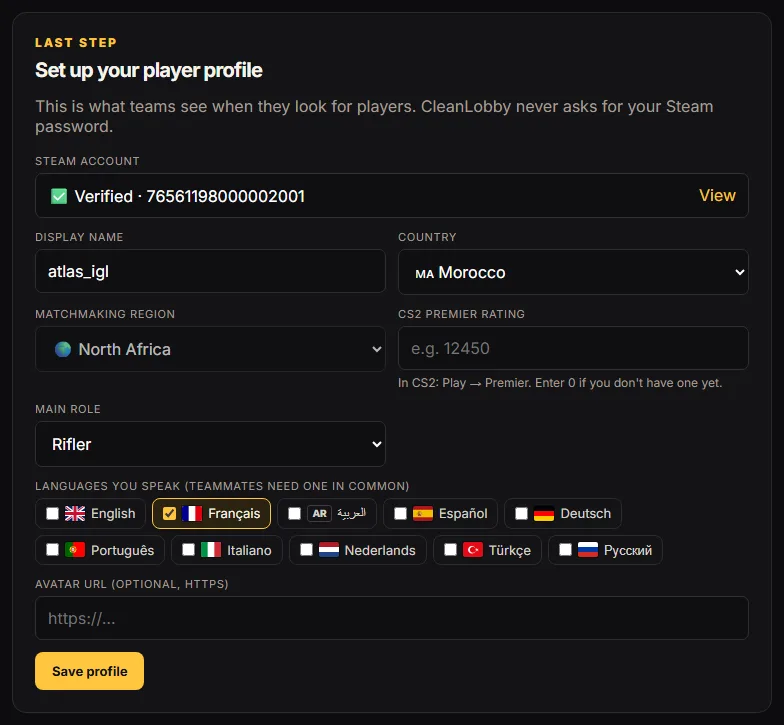
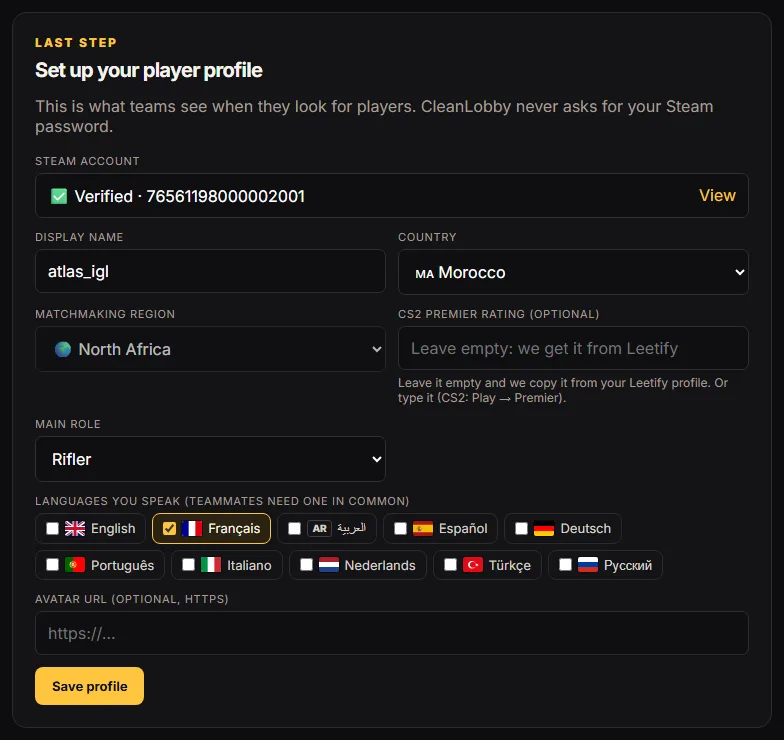
Premier rating from Leetify, live FACEIT in the profile box, Trust Score explained
Premier rating is optional at sign-up: left empty it's copied from Leetify
(syncPremierFromLeetify, also a daily job for everyone), labelled "Data
Provided by Leetify", deleted if Leetify drops it; a typed rating always
wins. Operator accepted that this bends Leetify's don't-store guideline.
Trust Score: Good/Excellent bands (60+ is good), personal tips, a guide
section, FAQ entries, note at the rating step. Privacy Policy and wiki.

diff --git a/public/app.js b/public/app.js
@@ -45,6 +45,8 @@ const Stack5 = (() => {
     const [,cls,name]=premierTier(r), txt=r.toLocaleString('en-US'), i=txt.lastIndexOf(',');
     return `<span class="premier t-${cls}" title="CS2 Premier rating · ${name} tier (self-reported)">${i<0?`<b>${txt}</b>`:`<b>${txt.slice(0,i)}</b><small>${txt.slice(i)}</small>`}</span>`;
   }
+  const LEETIFY_ATTR='<a class="leetify-attr" href="https://leetify.com/" target="_blank" rel="noopener">Data Provided by Leetify</a>';
+  const premierSource=p=>p?.premier_source==='leetify'?LEETIFY_ATTR:p?.premier_rating!=null?'<span class="muted small">self-reported</span>':'';
   function premierRange(min,max){
     min=Number(min)||0; max=Number(max??40000);
     if(!min && max>=40000) return '<span class="muted">Any Premier rating</span>';
@@ -254,7 +256,7 @@ const Stack5 = (() => {
           </div>
           <div id="trust-box"><div class="empty">Loading trust score…</div></div>
           <div class="detail-grid">
-            <div class="detail"><label>CS2 Premier rating <span class="muted small">(self-reported)</span></label><strong>${premier(p.premier_rating)}</strong></div>
+            <div class="detail"><label>CS2 Premier rating ${premierSource(p)}</label><strong>${premier(p.premier_rating)}</strong></div>
             <div class="detail"><label>Role</label><strong>${esc(p.role||'—')}</strong></div>
             <div class="detail"><label>Speaks</label><strong>${langsOf(p).length?`${languageFlags(langsOf(p))} ${esc(langNames(langsOf(p)))}`:'—'}</strong></div>
           </div>
@@ -278,9 +280,22 @@ const Stack5 = (() => {
   const CONFIDENCE={NEW:['New player','Not much data yet — this score will settle as they play.'],BUILDING:['Building','Some history on record.'],ESTABLISHED:['Established','Backed by solid history.']};
   const PART_LABELS={identity:['Identity','Steam account history'],peer:['Peer reputation','Ratings from players they actually played with'],reliability:['Reliability','Accepting matches, not abandoning teams'],record:['Track record','Confirmed matches on CleanLobby']};
 
+  // What a score means. 60+ is good; new players with a solid Steam account usually start around 65.
+  const TRUST_BANDS=[[75,'Excellent','var(--ok)'],[60,'Good','var(--ok)'],[40,'Fair','#f2c94c'],[0,'Low','var(--danger)']];
+  const trustBand=n=>TRUST_BANDS.find(([min])=>n>=min);
+  // The most useful next steps for this score, from its weakest parts.
+  function trustTips(t){
+    const p=t.parts, tips=[];
+    if((p.peer.ratings||0)<5) tips.push('<strong>Finish matches and get rated.</strong> Ratings from the players you played with are 30% of the score. After each match, rate everyone: they can rate you back.');
+    else if(p.peer.score<60) tips.push('<strong>Ratings are below average.</strong> Communicate, play your role and stay to the end: each new match brings new ratings, and older ones fade after a few months.');
+    if(p.reliability.incidents>0) tips.push('<strong>Stay reliable.</strong> Accept matches within 5 minutes, don’t decline, and don’t leave a team that’s in the queue. Incidents fade after about 3 months.');
+    if((p.record.matches||0)<30) tips.push(`<strong>Play more matches to the end.</strong> Each match with an agreed score adds to your track record (${p.record.matches||0} so far, full at 30).`);
+    if((p.identity.notes||[]).some(n=>/private|hidden|not verified/i.test(n))) tips.push('<strong>Make your Steam profile and game details public</strong> so your account age and CS2 hours count fully.');
+    return tips.slice(0,3);
+  }
   function trustPanel(t){
     const [confLabel,confText]=CONFIDENCE[t.confidence]||CONFIDENCE.NEW;
-    const color=t.total>=70?'var(--ok)':t.total>=40?'#f2c94c':'var(--danger)';
+    const [,bandName,color]=trustBand(t.total);
     const part=(key)=>{
       const v=t.parts[key], [label,desc]=PART_LABELS[key];
       const detail=key==='identity'?(v.notes||[]).join(' · '):key==='peer'?(v.ratings?`${v.ratings} rating${v.ratings>1?'s':''}, avg ${v.avg}★`:'No ratings yet'):key==='reliability'?(v.incidents?`${v.incidents} recent incident(s)`:'No incidents'):`${v.matches} match${v.matches===1?'':'es'}`;
@@ -292,12 +307,13 @@ const Stack5 = (() => {
     };
     return `<div class="trust-panel">
       <div class="trust-head">
-        <div><div class="stat-label">CleanLobby Trust Score</div><div class="trust-total" style="color:${color}">${t.total}</div></div>
+        <div><div class="stat-label">CleanLobby Trust Score</div><div class="trust-total" style="color:${color}">${t.total} <span class="trust-band" style="color:${color}">${bandName}</span></div><div class="muted small">60 and above is good · 75+ excellent</div></div>
         <div style="text-align:right"><span class="status ${t.confidence==='ESTABLISHED'?'green':t.confidence==='BUILDING'?'amber':''}">${confLabel}</span><div class="muted small" style="margin-top:6px;max-width:260px">${confText}</div></div>
       </div>
       ${t.flags?.length?`<div class="trust-flags">${t.flags.map(f=>`<div>⚠ ${esc(f)}</div>`).join('')}</div>`:''}
       <div class="trust-parts">${['identity','peer','reliability','record'].map(part).join('')}</div>
-      <p class="muted small" style="margin:14px 0 0">CleanLobby is a reputation layer, not an anti-cheat. Scores combine public Steam data with CleanLobby match history and ratings.</p>
+      ${trustTips(t).length?`<div class="trust-tips"><strong class="small">How to raise it</strong><ul>${trustTips(t).map(x=>`<li>${x}</li>`).join('')}</ul></div>`:''}
+      <p class="muted small" style="margin:14px 0 0">CleanLobby is a reputation layer, not an anti-cheat. <a href="/guide#trust-score" style="color:var(--accent)">How the Trust Score works</a></p>
     </div>`;
   }
 
@@ -478,14 +494,14 @@ const Stack5 = (() => {
   const GUIDE_STEPS=[
     ['1-sign-in',496,434,'Sign in with Steam','Click <strong>Sign in with Steam</strong>. You log in on Steam’s own website: check the address bar says <code>steamcommunity.com</code>. CleanLobby only receives your public SteamID. It never sees your password and can’t touch your inventory or trades.'],
     ['2-pick-username',436,366,'Pick your username','First time only: choose a CleanLobby username. Email is optional (for match notifications). Confirm you’re 16 or older and accept the Terms.'],
-    ['3-profile-setup',784,725,'Set up your player profile','Country (this decides which teams you can play: only ones close enough for good ping), CS2 Premier rating, main role and the languages you speak (your teammates need one in common). Teams see this when they look for players.'],
-    ['4-build-team',1061,755,'Build your five','Create a team and invite players by their CleanLobby username, or find them on <a href="/players">Find Players</a>. Prefer joining a team? Browse <a href="/teams">Find a Team</a> and ask to join. An open team disbands after 6 hours without a new player.'],
+    ['3-profile-setup',784,740,'Set up your player profile','Country (this decides which teams you can play: only ones close enough for good ping), CS2 Premier rating, main role and the languages you speak (your teammates need one in common). Teams see this when they look for players.'],
+    ['4-build-team',1061,827,'Build your five','Create a team and invite players by their CleanLobby username, or find them on <a href="/players">Find Players</a>. Prefer joining a team? Browse <a href="/teams">Find a Team</a> and ask to join. An open team disbands after 6 hours without a new player.'],
     ['5-full-team-queue',705,609,'Five players? Find a match','When your team has 5 players, the captain clicks <strong>Find match</strong>. Everyone must meet the CleanLobby requirements: Steam account at least 2 years old, 500+ hours of CS2, no recent VAC or game ban.'],
-    ['6-searching',705,647,'Searching for an opponent','CleanLobby looks for another full team close enough for good ping (their players’ countries within about 2,500 km of yours) with a similar Premier rating. This runs every 30 seconds. After 2 hours without a match, your team leaves the queue.'],
+    ['6-searching',705,667,'Searching for an opponent','CleanLobby looks for another full team close enough for good ping (their players’ countries within about 2,500 km of yours) with a similar Premier rating. This runs every 30 seconds. After 2 hours without a match, your team leaves the queue.'],
     ['7-match-found',1061,594,'Match found: captains accept','Both captains have <strong>5 minutes</strong> to accept. Declining or letting the time run out counts against the captain’s reliability.'],
     ['8-match-room',1061,1088,'Play through CS2 Private Matchmaking','Each captain invites their 4 teammates to a <strong>CS2 party</strong> (use the Steam buttons). One captain creates a <em>Private Matchmaking Pool</em> in CS2 and pastes the code here. The other captain enters it with <em>Manually Enter a Code</em>. Both parties press <strong>GO</strong>. Optional: a captain can share a Discord voice channel that only their own team sees.'],
-    ['9-result-and-ratings',1061,550,'Report the score, then rate everyone','After the game, both captains report the score. When they match, the result is final and everyone can rate the players they played with, teammates and opponents. Different scores go to an admin.'],
-    ['10-trust-score',1076,303,'Build your Trust Score','Your Trust Score (0–100) combines your Steam history, ratings from people you played with, reliability and matches played. It’s public on your profile and helps teams decide who to play with.']
+    ['9-result-and-ratings',1061,570,'Report the score, then rate everyone','After the game, both captains report the score. When they match, the result is final and everyone can rate the players they played with, teammates and opponents. Different scores go to an admin.'],
+    ['10-trust-score',1061,433,'Build your Trust Score','Your Trust Score (0–100) combines your Steam history, ratings from people you played with, reliability and matches played. It’s public on your profile and helps teams decide who to play with. <strong>60 and above is good.</strong> See <a href="#trust-score">how it works and how to raise it</a>.']
   ];
   const GUIDE_FAQ=[
     ['Is signing in with Steam safe?','Yes. You sign in on steamcommunity.com, never on CleanLobby. We only receive your public SteamID. CleanLobby will never ask for your Steam Guard code, an API key or your trade link. If a page asks for those, it isn’t us.'],
@@ -493,17 +509,36 @@ const Stack5 = (() => {
     ['Does it cost anything?','No. CleanLobby is free during the beta.'],
     ['Does a CleanLobby match change my CS Rating?','No. CS2 Private Matchmaking is unrated in CS2. CleanLobby keeps its own results and Trust Score.'],
     ['What if the other team doesn’t show up, or the captains disagree?','If only one captain reports a score within 6 hours, that score counts. If the scores don’t match, an admin decides. You can also <a href="/contact">contact us</a> with details.'],
+    ['What is a good Trust Score?','<strong>60 and above is good</strong>, 75 and above is excellent. 40–59 is fair, under 40 is low. A new player with a solid Steam account usually starts around 65. A VAC or game ban in the last 2 years caps the score at 20. <a href="#trust-score">How it’s calculated</a>.'],
+    ['How do I raise my Trust Score?','Play matches to the end, report the score, and rate everyone you played with after each match: ratings from other players are 30% of the score. Accept matches in time and don’t leave a queued team. Your profile shows tips for your own score. <a href="#trust-score">Details</a>.'],
     ['How do I report a cheater?','Use the <a href="/contact">Contact page</a> (topic: Report a player) with their CleanLobby name and the match. CleanLobby is a reputation layer, not an anti-cheat.']
   ];
   function guidePage(){
     layout('How CleanLobby works',`<div class="container guide">
       <div class="eyebrow">PLAYER GUIDE</div><h1>How CleanLobby works</h1>
       <p class="subtitle">From signing in to your first match, step by step. Getting set up takes about 5 minutes.</p>
-      <nav class="guide-toc" aria-label="Steps">${GUIDE_STEPS.map(([,,,t],i)=>`<a href="#step-${i+1}">${i+1}. ${esc(t)}</a>`).join('')}<a href="#faq">Questions</a></nav>
+      <nav class="guide-toc" aria-label="Steps">${GUIDE_STEPS.map(([,,,t],i)=>`<a href="#step-${i+1}">${i+1}. ${esc(t)}</a>`).join('')}<a href="#trust-score">Trust Score</a><a href="#faq">Questions</a></nav>
       ${GUIDE_STEPS.map(([id,w,h,t,text],i)=>`<section class="guide-step" id="step-${i+1}">
         <div class="guide-text"><div class="step-num">STEP ${i+1}</div><h2>${esc(t)}</h2><p>${text}</p></div>
         <figure><img src="/img/guide/${id}.webp" width="${w}" height="${h}" loading="${i<2?'eager':'lazy'}" alt="${esc(t)}: screenshot of CleanLobby"><figcaption class="muted small">Example players and teams.</figcaption></figure>
       </section>`).join('')}
+      <section class="panel guide-trust" id="trust-score" style="margin-top:28px">
+        <div class="step-num">TRUST SCORE</div><h2>How the Trust Score works</h2>
+        <p>Every player has a public score from 0 to 100. It tells teams how much they can count on you: is this a real, established account, do people enjoy playing with you, and do you show up? It is not a skill rating: skill is your Premier rating.</p>
+        <div class="trust-scale" aria-label="Score bands">
+          <div style="--c:var(--danger);flex:40"><b>0–39</b>Low</div><div style="--c:#f2c94c;flex:20"><b>40–59</b>Fair</div><div style="--c:var(--ok);flex:15"><b>60–74</b>Good</div><div style="--c:var(--ok);flex:25"><b>75–100</b>Excellent</div>
+        </div>
+        <p><strong>60 and above is good.</strong> A new player with a solid Steam account usually starts around 65, then the score moves with every match.</p>
+        <table class="trust-table">
+          <tr><th>Part</th><th>Weight</th><th>What counts</th><th>How to raise it</th></tr>
+          <tr><td><strong>Identity</strong></td><td>35%</td><td>Your Steam account: age (full at 6 years), CS2 hours (full at 2,000 h), Steam level (full at 25). Only counts once you signed in through Steam.</td><td>Keep your Steam profile and game details public. It grows by itself as your account ages.</td></tr>
+          <tr><td><strong>Peer reputation</strong></td><td>30%</td><td>1–5★ ratings from teammates and opponents after matches. Ratings from trusted, older accounts count more. Ratings fade after a few months. The same small group rating each other again and again counts less.</td><td>Play well with others: communicate, play your role, stay to the end. Rate everyone after each match, so they rate you back.</td></tr>
+          <tr><td><strong>Reliability</strong></td><td>25%</td><td>Showing up. Declining a match, letting it expire, or leaving a team that’s in the queue count against you. Incidents fade after about 3 months. New players start at 80.</td><td>Accept matches within 5 minutes and don’t leave a queued team.</td></tr>
+          <tr><td><strong>Track record</strong></td><td>10%</td><td>Matches you played to the end with an agreed score (full at 30 matches).</td><td>Play matches through and make sure your captain reports the score.</td></tr>
+        </table>
+        <p><strong>What can cap it:</strong> a VAC or game ban in the last 2 years caps the score at 20. Older bans take off 15 points each (up to 30). A Steam community ban caps it at 40.</p>
+        <p class="muted small">The label next to the score (New player, Building, Established) says how much history backs it. A new player’s score can still move a lot. CleanLobby is a reputation layer, not an anti-cheat.</p>
+      </section>
       <section class="panel" id="faq" style="margin-top:28px"><h2>Questions</h2>${GUIDE_FAQ.map(([q,a])=>`<details class="faq"><summary>${esc(q)}</summary><p>${a}</p></details>`).join('')}</section>
       <div class="cta" style="margin-top:24px"><h2>Ready?</h2><p>Sign in, set up your profile and build your five.</p><div class="actions"><a class="btn btn-green" href="/login" data-guest-cta>Sign in with Steam</a></div></div>
     </div>`,'guide');
@@ -647,6 +682,11 @@ const Stack5 = (() => {
         <div>${sidePanel(d)}</div>
       </div>`;
     startCountdowns();
+    // FACEIT is shown live only (its API terms forbid keeping a copy).
+    get(`/api/players/${d.player.id}/faceit`).then(f=>{
+      const el=document.getElementById('my-faceit');
+      if(el && f.available && !f.none) el.innerHTML=`FACEIT <strong>level ${esc(f.level??'—')}</strong> · Elo ${esc(f.elo??'—')} <span class="leetify-attr">Live data from FACEIT</span>`;
+    }).catch(()=>{});
 
     // Keep the page live while waiting on the queue or the other captain (no text inputs are shown then).
     const waiting=(d.team && d.team.status==='READY') || (d.match && ['PENDING','CONFIRMED','DISPUTED'].includes(d.match.status));
@@ -761,7 +801,7 @@ const Stack5 = (() => {
         body+=`<h3 style="margin:18px 0 6px">After the game: report the score</h3>`
           +(myReport?`<p>You reported <strong>${myReport[0]}–${myReport[1]}</strong>. ${theirReport?'':'Waiting for the other captain.'}</p><details class="muted small"><summary>Change your report</summary>${reportForm('Update')}</details>`:reportForm('Report result'))+deadline;
       } else {
-        body+=`<p class="muted" style="margin-top:16px">After the game, your captain reports the score. Then you can rate everyone you played with.</p>`;
+        body+=`<p class="muted" style="margin-top:16px">After the game, your captain reports the score. Then you can rate everyone you played with: ratings are 30% of the Trust Score.</p>`;
       }
     } else if(m.status==='DISPUTED'){
       head=`<div class="eyebrow" style="color:#ffb3b9">RESULT DISPUTED</div><h2 style="margin-top:8px">${esc(mine?.name)} vs ${esc(other?.name)}</h2>
@@ -771,7 +811,7 @@ const Stack5 = (() => {
       const [me,them]=mySide([m.score_a,m.score_b]);
       head=`<div class="eyebrow">MATCH FINISHED</div>
         <h2 style="margin-top:8px">${esc(mine?.name)} <span class="score">${me} – ${them}</span> ${esc(other?.name)}</h2>
-        <p class="muted">${me>them?'🏆 Your team won.':me<them?'Your team lost.':'Draw.'} Rate the players you played with, teammates and opponents. Ratings build their Trust Score.</p>`;
+        <p class="muted">${me>them?'🏆 Your team won.':me<them?'Your team lost.':'Draw.'} Rate the players you played with, teammates and opponents. Ratings are 30% of everyone’s Trust Score, and they can rate you back. <a href="/guide#trust-score" style="color:var(--accent)">How it works</a></p>`;
     } else if(m.status==='NO_RESULT'){
       head=`<div class="eyebrow">MATCH CLOSED</div><h2 style="margin-top:8px">${esc(mine?.name)} vs ${esc(other?.name)}</h2>
         <p class="muted">No result was reported in time, so this match doesn't count for anyone.</p>`;
@@ -862,9 +902,12 @@ const Stack5 = (() => {
     }
     html+=`<div class="panel"><h2>Your profile</h2>
       <div class="muted small">${countryFlag(d.player.country)} ${esc(d.player.region)} · ${premier(d.player.premier_rating)} · ${esc(d.player.role)}</div>
-      ${d.player.premier_rating==null?'<p class="small" style="color:#f2c94c;margin:10px 0 0">Add your CS2 Premier rating so we can match your team fairly.</p>':''}
+      <div class="small" style="margin-top:8px">Premier ${premier(d.player.premier_rating)} ${premierSource(d.player)}</div>
+      <div class="small" id="my-faceit" style="margin-top:6px"></div>
+      ${d.player.premier_rating==null?'<p class="small" style="color:#f2c94c;margin:10px 0 0">Leetify has no Premier rating for you yet. Type yours below so we can match your team fairly.</p>':''}
       <form data-form="languages" style="margin-top:12px"><label class="field-label">Languages you speak</label>${languageBoxes(langsOf(d.player))}<button class="btn btn-dark btn-small" style="margin-top:8px">Save languages</button></form>
       <form data-form="premier" class="inline-form"><input class="input" name="premier_rating" type="number" inputmode="numeric" min="0" max="40000" placeholder="Premier rating" value="${d.player.premier_rating??''}" aria-label="CS2 Premier rating"><button class="btn btn-dark btn-small">Update</button></form>
+      ${d.player.premier_source==='self'?`<button class="btn btn-outline btn-small" data-act="premier-leetify" style="margin-top:8px">Use my Leetify rating instead</button>`:''}
       <div class="muted small" style="margin-top:6px">${d.eligibility?.eligible?'<span class="status green">VERIFIED</span> Meets CleanLobby requirements':'<span class="status amber">NOT VERIFIED</span>'}</div>
       <div class="actions" style="margin-top:12px"><a class="btn btn-small btn-dark" href="/player/${encodeURIComponent(d.player.display_name)}">View public profile</a><a class="btn btn-small btn-outline" href="/account">Account</a></div></div>`;
     return html;
@@ -891,8 +934,8 @@ const Stack5 = (() => {
         <div><label>Display name</label><input class="input" name="display_name" maxlength="40" value="${esc(d.account.username)}" required></div>
         <div><label>Country</label><select name="country" required>${cat.countries.map(c=>`<option value="${c.code}" data-region="${c.region}" ${c.code==='MA'?'selected':''}>${c.flag} ${esc(c.name)}</option>`).join('')}</select></div>
         <div><label>Matchmaking region</label><select name="region" disabled>${cat.regions.map(r=>`<option value="${r.id}">${r.flag} ${esc(r.name)}</option>`).join('')}</select></div>
-        <div><label>CS2 Premier rating</label><input class="input" name="premier_rating" type="number" inputmode="numeric" min="0" max="40000" placeholder="e.g. 12450" required>
-          <div class="muted small" style="margin-top:5px">In CS2: Play → Premier. Enter 0 if you don't have one yet.</div></div>
+        <div><label>CS2 Premier rating (optional)</label><input class="input" name="premier_rating" type="number" inputmode="numeric" min="0" max="40000" placeholder="Leave empty: we get it from Leetify">
+          <div class="muted small" style="margin-top:5px">Leave it empty and we copy it from your Leetify profile. Or type it (CS2: Play → Premier).</div></div>
         <div><label>Main role</label><select name="role">${ROLES.map(r=>`<option>${r}</option>`).join('')}</select></div>
         <div class="full"><label>Languages you speak (teammates need one in common)</label>${languageBoxes(['FR'])}</div>
         <div class="full"><label>Avatar URL (optional, https)</label><input class="input" name="avatar_url" type="url" placeholder="https://..."></div>
@@ -915,6 +958,7 @@ const Stack5 = (() => {
     'leave':          id=>post(`/api/teams/${id}/leave`),
     'disband':        id=>post(`/api/teams/${id}/disband`),
     'remove':     (id,arg)=>post(`/api/teams/${id}/remove`,{player_id:Number(arg)}),
+    'premier-leetify': ()=>post('/api/profile/premier',{use_leetify:true}),
     'transfer':   (id,arg)=>post(`/api/teams/${id}/transfer`,{player_id:Number(arg)}),
     'accept-match':(id,arg)=>post(`/api/matches/${id}/accept`,{team_id:Number(arg)}),
     'decline-match':  id=>post(`/api/matches/${id}/decline`),
@@ -965,6 +1009,7 @@ const Stack5 = (() => {
       if(form.dataset.form==='profile'){
         data.region=form.region.value;
         data.languages=checked();
+        if(!data.premier_rating) delete data.premier_rating;
         if(!data.avatar_url) delete data.avatar_url;
         await post('/api/profile',data); toast('Profile saved. Welcome to CleanLobby!');
       }

diff --git a/src/server.js b/src/server.js
@@ -8,7 +8,7 @@ import crypto from "node:crypto";
 import { fileURLToPath } from "node:url";
 import nodemailer from "nodemailer";
 import { db, getTeam, getTeamMembers } from "./db.js";
-import { steamPersonaName, refreshExternal, leetifyProfile, faceitProfile, faceitEnabled } from "./external.js";
+import { steamPersonaName, refreshExternal, leetifyProfile, faceitProfile, faceitEnabled, syncPremierFromLeetify } from "./external.js";
 import { computeTrust, recomputeAll, recordEvent } from "./trust.js";
 import { evaluateEligibility, isEligible, eligibilityEnabled, NOT_ELIGIBLE } from "./eligibility.js";
 import { steamLoginUrl, verifySteamAssertion } from "./steam-auth.js";
@@ -359,8 +359,10 @@ app.post("/api/profile", auth, csrf, async (req, res) => {
   if (!requireBody(req, res, ["country","region","role"])) return;
   const languages = parseLanguages(req.body.languages ?? req.body.language);
   if (!languages.length) return res.status(400).json({ error: "Pick at least one language you speak." });
-  const premier = premierRating(req.body.premier_rating);
-  if (premier === null) return res.status(400).json({ error: PREMIER_ERROR });
+  // Premier rating is optional at sign-up: left empty, it's copied from Leetify right after.
+  const typed = String(req.body.premier_rating ?? "").trim() !== "";
+  const premier = typed ? premierRating(req.body.premier_rating) : null;
+  if (typed && premier === null) return res.status(400).json({ error: PREMIER_ERROR });
   if (!req.account.verified_steam_id) return res.status(403).json({ error: "Sign in through Steam first to prove the account is yours.", code: "STEAM_NOT_LINKED" });
   const country = COUNTRY_CATALOG.find(x => x[0] === req.body.country);
   const region = REGION_CATALOG.find(x => x.id === req.body.region);
@@ -375,10 +377,11 @@ app.post("/api/profile", auth, csrf, async (req, res) => {
     const result = db.transaction(() => {
       const existing = db.prepare("SELECT id FROM players WHERE steam_url=? OR (steam_id IS NOT NULL AND steam_id=?)").get(steamUrl, steamId);
       if (existing) throw new Error("This Steam profile is already linked to a CleanLobby player.");
-      const r = db.prepare(`INSERT INTO players(steam_url,steam_id,steam_verified,steam_verified_at,display_name,avatar_url,premier_rating,region,country,language,languages,role) VALUES(?,?,?,?,?,?,?,?,?,?,?,?)`).run(steamUrl,steamId,1,Date.now(),name,safeAvatarUrl(req.body.avatar_url),premier,region.id,country[0],languages[0],languages.join(","),String(req.body.role).slice(0,20));
+      const r = db.prepare(`INSERT INTO players(steam_url,steam_id,steam_verified,steam_verified_at,display_name,avatar_url,premier_rating,premier_source,region,country,language,languages,role) VALUES(?,?,?,?,?,?,?,?,?,?,?,?,?)`).run(steamUrl,steamId,1,Date.now(),name,safeAvatarUrl(req.body.avatar_url),premier,typed?"self":null,region.id,country[0],languages[0],languages.join(","),String(req.body.role).slice(0,20));
       db.prepare("UPDATE accounts SET player_id=? WHERE id=?").run(r.lastInsertRowid, req.account.account_id);
       return r.lastInsertRowid;
     })();
+    if (!typed) await syncPremierFromLeetify(result).catch(e => console.error("[STACK5] Premier from Leetify failed:", e.message));
     computeTrust(result);
     evaluateEligibility(result);
     // Pull Steam/FACEIT data in the background, then rescore and re-check eligibility.
@@ -395,10 +398,15 @@ function premierRating(v) {
   const n = Number(String(v).replace(/[ ,.]/g, ""));
   return Number.isInteger(n) && n >= 0 && n <= 40000 ? n : null;
 }
-app.post("/api/profile/premier", auth, csrf, profileRequired, (req, res) => {
+app.post("/api/profile/premier", auth, csrf, profileRequired, async (req, res) => {
+  if (req.body.use_leetify) {   // go back to the Leetify copy
+    db.prepare("UPDATE players SET premier_source=NULL, premier_rating=NULL WHERE id=?").run(req.account.player_id);
+    const r = await syncPremierFromLeetify(req.account.player_id).catch(() => null);
+    return res.json({ premier_rating: r, message: r ? `Premier rating from Leetify: ${r.toLocaleString("en-US")}.` : "Leetify has no Premier rating for you. Enter it yourself." });
+  }
   const premier = premierRating(req.body.premier_rating);
   if (premier === null) return res.status(400).json({ error: PREMIER_ERROR });
-  db.prepare("UPDATE players SET premier_rating=? WHERE id=?").run(premier, req.account.player_id);
+  db.prepare("UPDATE players SET premier_rating=?, premier_source='self' WHERE id=?").run(premier, req.account.player_id);
   res.json({ premier_rating: premier, message: premier ? `Premier rating saved: ${premier.toLocaleString("en-US")}.` : "Saved: no Premier rating yet." });
 });
 
@@ -409,7 +417,7 @@ app.post("/api/profile/languages", auth, csrf, profileRequired, (req, res) => {
   res.json({ languages, message: "Languages saved." });
 });
 
-const PUBLIC_PLAYER_COLS = "id,steam_url,steam_verified,display_name,avatar_url,premier_rating,region,country,language,languages,role,trust_score,reliability_score,teamplay_score,trust_confidence";
+const PUBLIC_PLAYER_COLS = "id,steam_url,steam_verified,display_name,avatar_url,premier_rating,premier_source,region,country,language,languages,role,trust_score,reliability_score,teamplay_score,trust_confidence";
 app.get("/api/players", (_, res) => res.json(db.prepare(`SELECT ${PUBLIC_PLAYER_COLS},eligible FROM players WHERE deleted_at IS NULL ORDER BY id DESC`).all()));
 app.get("/api/players/:id", (req,res) => { const p=db.prepare(`SELECT ${PUBLIC_PLAYER_COLS},eligible,created_at FROM players WHERE id=? AND deleted_at IS NULL`).get(req.params.id); if(!p) return res.status(404).json({error:"Player not found"}); res.json(p); });
 
@@ -1042,9 +1050,14 @@ async function trustUpkeep(){
   if(process.env.STEAM_API_KEY){
     for(const {id} of stale){ await refreshExternal(id).catch(()=>{}); await new Promise(r=>setTimeout(r,300)); }
   }
+  // Premier ratings copied from Leetify: fill missing ones and refresh daily (not ones players typed).
+  const premierDue=db.prepare(`SELECT id FROM players WHERE deleted_at IS NULL AND steam_id IS NOT NULL AND (premier_source IS NULL OR premier_source='leetify')
+    AND (premier_synced_at IS NULL OR premier_synced_at < ?) LIMIT 200`).all(Date.now()-86_400_000);
+  let synced=0;
+  for(const {id} of premierDue){ if(await syncPremierFromLeetify(id).catch(()=>null)) synced++; await new Promise(r=>setTimeout(r,500)); }
   const n=recomputeAll();
   for(const {id} of db.prepare("SELECT id FROM players WHERE deleted_at IS NULL").all()) evaluateEligibility(id);
-  console.log(`[STACK5] trust upkeep: refreshed ${process.env.STEAM_API_KEY ? stale.length : 0}, rescored ${n}`);
+  console.log(`[STACK5] trust upkeep: refreshed ${process.env.STEAM_API_KEY ? stale.length : 0}, Premier from Leetify ${synced}/${premierDue.length}, rescored ${n}`);
 }
 if(process.env.NODE_ENV!=="test"){
   setTimeout(()=>trustUpkeep().catch(e=>console.error("[STACK5] trust upkeep failed:",e)),5000).unref();

diff --git a/public/pages/privacy.html b/public/pages/privacy.html
@@ -63,7 +63,7 @@
 <div class="table-wrap"><table>
 <tr><th>Data</th><th>Why</th></tr>
 <tr><td><strong>Account:</strong> username, the SteamID64 you sign in with, and optionally an email address</td><td>To create your account and sign you in. CleanLobby has no passwords: you sign in through Steam. The email is optional; if you add one, we verify it and use it only for match notifications and important account news.</td></tr>
-<tr><td><strong>Player profile:</strong> link to your Steam profile, display name, optional avatar URL, country, matchmaking region, CS2 Premier rating (as you enter it), main role, the languages you speak</td><td>To show your profile to other players and to match teams by region and level.</td></tr>
+<tr><td><strong>Player profile:</strong> link to your Steam profile, display name, optional avatar URL, country, matchmaking region, CS2 Premier rating (as you enter it, or copied from your Leetify profile if you leave it empty), main role, the languages you speak</td><td>To show your profile to other players and to match teams by region and level.</td></tr>
 <tr><td><strong>Terms acceptance:</strong> the date you accepted our terms</td><td>To record your agreement.</td></tr>
 </table></div>
 
@@ -89,6 +89,7 @@
 
 <h3>Information shown from Leetify</h3>
 <p>Your profile page shows CS2 statistics from Leetify's public API (for example Leetify Rating, Premier rating, aim and utility). These are requested live from Leetify when someone opens your profile, kept in server memory for at most 5 minutes, and <strong>not stored</strong> in our database. They are shown only if your Leetify privacy settings allow it, and they are <strong>not</strong> used in the CleanLobby Trust Score.</p>
+<p><strong>One exception, your CS2 Premier rating:</strong> if you don't type it yourself, we copy it from your Leetify profile, store it on your player profile (marked "Data Provided by Leetify") and use it to match your team against teams of a similar level. We refresh it about once a day and delete it if Leetify no longer shows it. A rating you type yourself always replaces it.</p>
 
 <h3>Information shown from FACEIT</h3>
 <p>If a FACEIT account is linked to your Steam account, your profile page shows information from FACEIT's Data API: your FACEIT nickname, level, Elo, number of CS2 matches, the date you joined FACEIT, and any FACEIT bans. These are requested live from FACEIT when someone opens your profile, kept in server memory for at most 5 minutes, and <strong>not stored</strong> in our database. They are <strong>not</strong> used in the CleanLobby Trust Score or in the requirements to play.</p>
@@ -131,7 +132,7 @@
 <li><strong>Hostinger:</strong> hosts our server and database.</li>
 <li><strong>Our email provider:</strong> sends email verification and notification emails, only if you added an email address.</li>
 <li><strong>Valve (Steam):</strong> handles Steam sign-in, and receives your SteamID or profile name when we look up your public Steam data.</li>
-<li><strong>Leetify:</strong> receives your SteamID when your profile page requests your stats.</li>
+<li><strong>Leetify:</strong> receives your SteamID when your profile page requests your stats, and once a day to keep your Premier rating up to date.</li>
 <li><strong>FACEIT:</strong> receives your SteamID when your profile page requests your FACEIT information.</li>
 </ul>
 <p>We may also disclose data if required by law, or to protect CleanLobby and its users from fraud or abuse.</p>

diff --git a/public/app.css b/public/app.css
@@ -379,3 +379,18 @@ footer{border-top:1px solid #1c1c21;margin-top:70px;padding:30px 24px;color:#757
 .lang-pick label{display:inline-flex;align-items:center;gap:6px;padding:6px 10px;border:1px solid var(--border);border-radius:8px;font-size:13px;color:#d6d1c7;cursor:pointer;text-transform:none;letter-spacing:0;margin:0}
 .lang-pick label:has(input:checked){border-color:var(--accent);color:var(--text);background:#2a2310}
 .lang-pick input{accent-color:var(--accent);margin:0}
+
+/* Trust Score explanation */
+.trust-band{font-size:18px;font-weight:800;letter-spacing:.02em;vertical-align:middle}
+.trust-tips{margin-top:16px;padding:12px 16px;border:1px solid #3a3420;background:#17150c;border-radius:10px}
+.trust-tips ul{margin:8px 0 0;padding-left:18px;display:grid;gap:6px;font-size:13px;color:#d6d1c7;line-height:1.5}
+.trust-tips strong{color:var(--text)}
+.guide-trust p{color:#d6d1c7;line-height:1.7}
+.trust-scale{display:flex;gap:4px;margin:16px 0 4px}
+.trust-scale div{border-top:6px solid var(--c);padding-top:6px;font-size:12px;color:var(--muted);min-width:0}
+.trust-scale b{display:block;color:var(--text);font-size:13px}
+.trust-table{width:100%;border-collapse:collapse;margin:14px 0;font-size:14px}
+.trust-table th{text-align:left;font-size:11px;text-transform:uppercase;letter-spacing:.08em;color:var(--muted);padding:8px;border-bottom:1px solid var(--border)}
+.trust-table td{padding:10px 8px;border-bottom:1px solid #1c1c21;vertical-align:top;color:#d6d1c7;line-height:1.5}
+.trust-table td:nth-child(2){white-space:nowrap;font-weight:700;color:var(--accent)}
+@media(max-width:700px){.trust-table tr{display:grid;grid-template-columns:1fr auto;gap:2px 10px;padding:10px 0;border-bottom:1px solid #1c1c21}.trust-table th{display:none}.trust-table td{border:0;padding:2px 0}.trust-table td:nth-child(3),.trust-table td:nth-child(4){grid-column:1/-1}.trust-table td:nth-child(4)::before{content:"How to raise it: ";font-weight:700;color:var(--text)}}

diff --git a/public/pages/app.html b/public/pages/app.html
@@ -40,7 +40,7 @@
     <li><strong>Build your five.</strong> Create a team and invite players, or ask to join a team that is recruiting.</li>
     <li><strong>Queue as a full team.</strong> CleanLobby matches you with another complete 5-stack close enough for good ping, with a similar CS2 Premier rating. Teammates find each other by the languages they speak.</li>
     <li><strong>Play through CS2 Private Matchmaking.</strong> One captain shares the private matchmaking code, both teams join on Valve servers, then the captains report the score.</li>
-    <li><strong>Build your reputation.</strong> Players rate each other after the match. The CleanLobby Trust Score combines Steam history, ratings, reliability and match record.</li>
+    <li><strong>Build your reputation.</strong> Players rate each other after the match. The CleanLobby Trust Score (0–100) combines Steam account history (35%), ratings from teammates and opponents (30%), reliability (25%) and matches played (10%). 60 and above is good, 75 and above is excellent. Raise it by playing matches to the end, rating everyone after each match and accepting matches in time.</li>
   </ol>
   <p>Regions: North Africa (Morocco, Algeria, Tunisia, Libya, Egypt), Europe, Middle East, Africa, the Americas, Asia and Oceania. CleanLobby is a reputation layer, not an anti-cheat.</p>
   <p><a href="/login">Sign in with Steam</a> · <a href="/teams">Find a team</a> · <a href="/players">Find players</a> · <a href="/matches">Matches</a> · <a href="/guide">How it works</a> · <a href="/contact">Contact</a> · <a href="/terms">Terms</a> · <a href="/privacy">Privacy</a></p>

diff --git a/src/external.js b/src/external.js
@@ -136,6 +136,22 @@ export async function refreshExternal(playerId) {
 
 // ---------- Leetify (live, not stored) ----------
 const leetifyCache = new Map();   // steamId -> { at, data } ; short-lived to respect rate limits
+/**
+ * Copy the player's CS2 Premier rating from Leetify (operator's decision, 2026-10-05: Leetify's guidelines ask
+ * developers not to store their data, accepted as a risk). Kept as close to their rules as possible: the number is
+ * never changed, it's labelled "Data Provided by Leetify", refreshed daily, and removed when Leetify no longer has it.
+ * A rating the player typed themselves ('self') is never overwritten.
+ */
+export async function syncPremierFromLeetify(playerId) {
+  const p = db.prepare("SELECT id, steam_id, premier_source FROM players WHERE id=?").get(playerId);
+  if (!p || !p.steam_id || p.premier_source === "self") return null;
+  const data = await leetifyProfile(p.steam_id);
+  const rating = Number(data?.premier) > 0 ? Math.round(Number(data.premier)) : null;
+  if (rating) db.prepare("UPDATE players SET premier_rating=?, premier_source='leetify', premier_synced_at=? WHERE id=?").run(rating, Date.now(), playerId);
+  else db.prepare("UPDATE players SET premier_rating=CASE WHEN premier_source='leetify' THEN NULL ELSE premier_rating END, premier_source=CASE WHEN premier_source='leetify' THEN NULL ELSE premier_source END, premier_synced_at=? WHERE id=?").run(Date.now(), playerId);
+  return rating;
+}
+
 export async function leetifyProfile(steamId64) {
   const hit = leetifyCache.get(steamId64);
   if (hit && Date.now() - hit.at < 5 * 60_000) return hit.data;

diff --git a/src/db.js b/src/db.js
@@ -272,6 +272,10 @@ try { db.exec("ALTER TABLE teams ADD COLUMN min_rating INTEGER DEFAULT 0"); } ca
 try { db.exec("ALTER TABLE teams ADD COLUMN max_rating INTEGER DEFAULT 40000"); } catch {}
 // Players can speak several languages ("FR,AR,EN"); the first one is also kept in `language` (flags, older code).
 try { db.exec("ALTER TABLE players ADD COLUMN languages TEXT"); } catch {}
+// Where the Premier rating came from: 'leetify' (copied, kept in sync) or 'self' (typed by the player, always wins).
+try { db.exec("ALTER TABLE players ADD COLUMN premier_source TEXT"); } catch {}
+try { db.exec("ALTER TABLE players ADD COLUMN premier_synced_at INTEGER"); } catch {}
+db.exec("UPDATE players SET premier_source='self' WHERE premier_rating IS NOT NULL AND premier_source IS NULL");
 db.exec("UPDATE players SET languages=language WHERE languages IS NULL AND language IS NOT NULL AND language<>''");
 // The self-reported FACEIT level/Elo is no longer collected or used: clear what older versions stored.
 db.exec("UPDATE players SET faceit_level=0, faceit_elo=0 WHERE faceit_level<>0 OR faceit_elo<>0");

diff --git a/docs/data-sources.md b/docs/data-sources.md
@@ -6,12 +6,13 @@ All three sources are free. Each has its own rules, and CleanLobby is built arou
 |---|---|---|---|
 | **Steam Web API** | Account age, CS2 hours, Steam level, VAC/game/community bans, privacy status | Yes, refreshed every 7 days | Yes |
 | **Steam sign-in (OpenID)** | Proving a player owns their Steam account | Only the Steam ID | — |
-| **Leetify** | Live "CS2 stats" panel on profiles | No (5-minute memory cache) | No |
+| **Leetify** | Live "CS2 stats" panel on profiles; **Premier rating copied to the profile** for matchmaking | Panel: no (5-minute memory cache). Premier rating: **yes** (refreshed daily) | No |
 | **FACEIT** | Live FACEIT panel on profiles: level, Elo, matches, bans | No (5-minute memory cache) | No |
 
 ## Rules we follow
 
-- **Leetify:** their developer guidelines forbid storing or rescaling their data. It is shown unmodified with "Data Provided by Leetify" and a link back.
+- **Leetify:** their [developer guidelines](https://leetify.com/blog/leetify-api-developer-guidelines/) ask developers not to store their data, not to rescale or recalculate it, and to show "Data Provided by Leetify". Everything is shown unmodified with that attribution and a link back.
+  - **Known exception (operator's decision, 2026-10-05):** the CS2 Premier rating is copied into `players.premier_rating` (`premier_source='leetify'`) when a player leaves it empty, and used for matchmaking. This goes against the "don't store" request; the risk (losing API access) was accepted. To stay as close as possible: the number is never changed, it's labelled "Data Provided by Leetify", refreshed daily, deleted when Leetify no longer has it, and a rating the player types (`'self'`) always wins. Code: `syncPremierFromLeetify()` in `src/external.js`, run at sign-up and by the trust upkeep job. Safer alternative if Leetify objects: switch to live-only use (fetch at matchmaking time, never store), or ask them for written permission.
 - **FACEIT** (API terms):
   - **Section 5.4:** no permanent copies and no derivative works. So nothing from FACEIT is saved and it is not used in the Trust Score. Any FACEIT data an older version stored is wiped automatically when the server starts.
   - **Section 4.2:** keep the API key confidential. It lives only in the server's `.env` file, never in the code or git.

diff --git a/docs/player-profile.md b/docs/player-profile.md
@@ -9,7 +9,7 @@ Players create it on the Play page after verifying their email (and, once deploy
 - **Display name** (up to 40 characters; defaults to the username)
 - **Country**, which sets the region shown on the profile and decides which teams you can be matched against (only ones close enough for good ping, see [matchmaking](queue-and-matchmaking.md))
 - **Languages you speak** (one or more). Teammates need a language in common, so Find Players filters by language, teams show the languages all their members share, and join requests say whether the player speaks the team's language. Editable any time on the Play page (`POST /api/profile/languages`).
-- **CS2 Premier rating** (self-reported, 0–40,000; 0 = no rating yet, since Premier needs 10 wins). Players can update it at any time from the "Your profile" box on the Play page (`POST /api/profile/premier`), because it changes every week. Accounts without one see a reminder there.
+- **CS2 Premier rating** (0–40,000; 0 = no rating yet, since Premier needs 10 wins). **Optional at sign-up:** left empty, it's copied from the player's Leetify profile and kept up to date daily (shown with "Data Provided by Leetify"; see [data sources](data-sources.md) for the rule this bends). A rating the player types is marked "self-reported" and is never overwritten; "Use my Leetify rating instead" switches back. The Play page's "Your profile" box also shows the live FACEIT level and Elo (not stored, FACEIT's API terms). Players can update it at any time from the "Your profile" box on the Play page (`POST /api/profile/premier`), because it changes every week. Accounts without one see a reminder there.
 - **Role**: Rifler, AWPer, Entry, IGL, Support or Lurker
 - **Language**: English, French, Arabic, Spanish, German, Portuguese, Italian, Dutch, Turkish or Russian
 

diff --git a/docs/README.md b/docs/README.md
@@ -38,6 +38,7 @@ How every part of CleanLobby works: what players see, the rules behind it, and w
 
 ## Changelog
 
+- **2026-10-05:** Premier rating copied from Leetify when a player leaves it empty (sign-up and a daily job for everyone, labelled "Data Provided by Leetify"; a typed rating always wins; operator accepted that this bends Leetify's "don't store" guideline). Live FACEIT level/Elo in the Play page's profile box. Trust Score explained: Good/Excellent bands (60+ is good), personal "How to raise it" tips on every score, a full section in the guide, FAQ entries, and a note at the rating step. Privacy Policy updated.
 - **2026-10-05:** Language between teammates, distance between teams. Players list every language they speak; teams show the languages all members share (warning if none); Find Players filters by language; join requests say if the player speaks the team's language. Matchmaking no longer requires the same region: teams are matched if their players' countries are within 2,500 km (good ping), closer is better. Terms, Privacy (also fixed: still mentioned the FACEIT level) and llms.txt updated.
 - **2026-10-05:** SEO: home description now leads with the slogan and mentions Premier rating; keywords updated (Premier, cheater-free CS2).
 - **2026-10-05:** "We don't want eggs" short video in English and French (`marketing/eggs-video/`), call to action to cleanlobby.com.

diff --git a/docs/trust-score.md b/docs/trust-score.md
@@ -2,6 +2,12 @@
 
 A 0–100 reputation score on every player, shown on their profile with a breakdown. CleanLobby is a reputation layer, **not an anti-cheat**.
 
+## How it's explained to players
+
+- **Bands:** 0–39 Low, 40–59 Fair, **60–74 Good**, 75–100 Excellent. "60 and above is good" is shown under every score. A new player with a solid Steam account starts around 65.
+- **Tips:** every score panel lists up to 3 "How to raise it" tips picked from its weakest parts (fewer than 5 ratings, low ratings, reliability incidents, under 30 matches, private Steam data). Code: `TRUST_BANDS`, `trustTips()` in `public/app.js`.
+- **Full explanation:** the guide's "How the Trust Score works" section (`/guide#trust-score`), linked from every score panel and the match room's rating step, plus two FAQ entries ("What is a good Trust Score?", "How do I raise my Trust Score?").
+
 ## What it's made of
 
 | Part | Weight | Based on |
